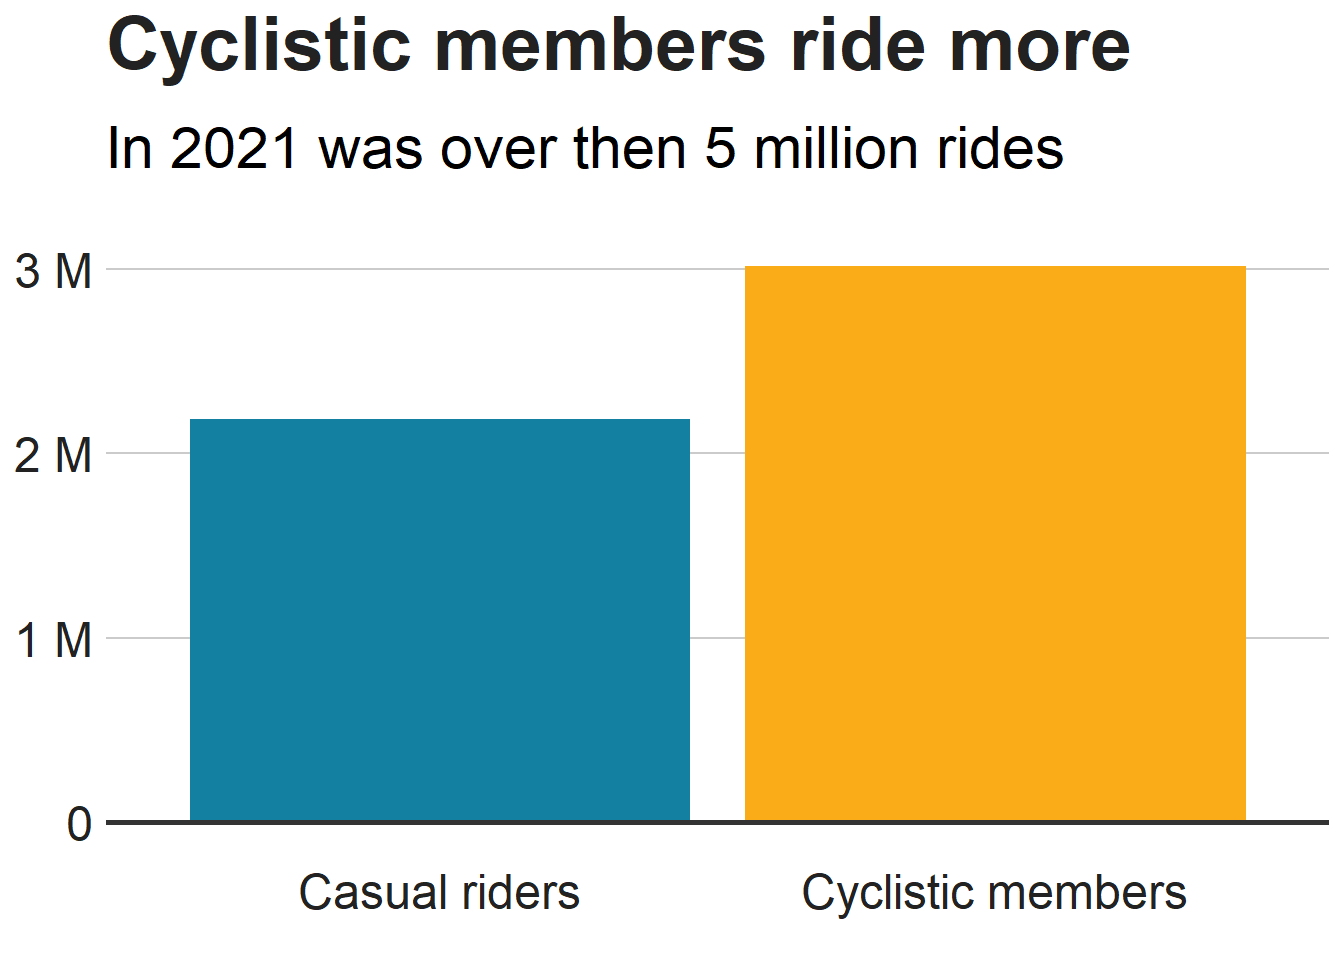
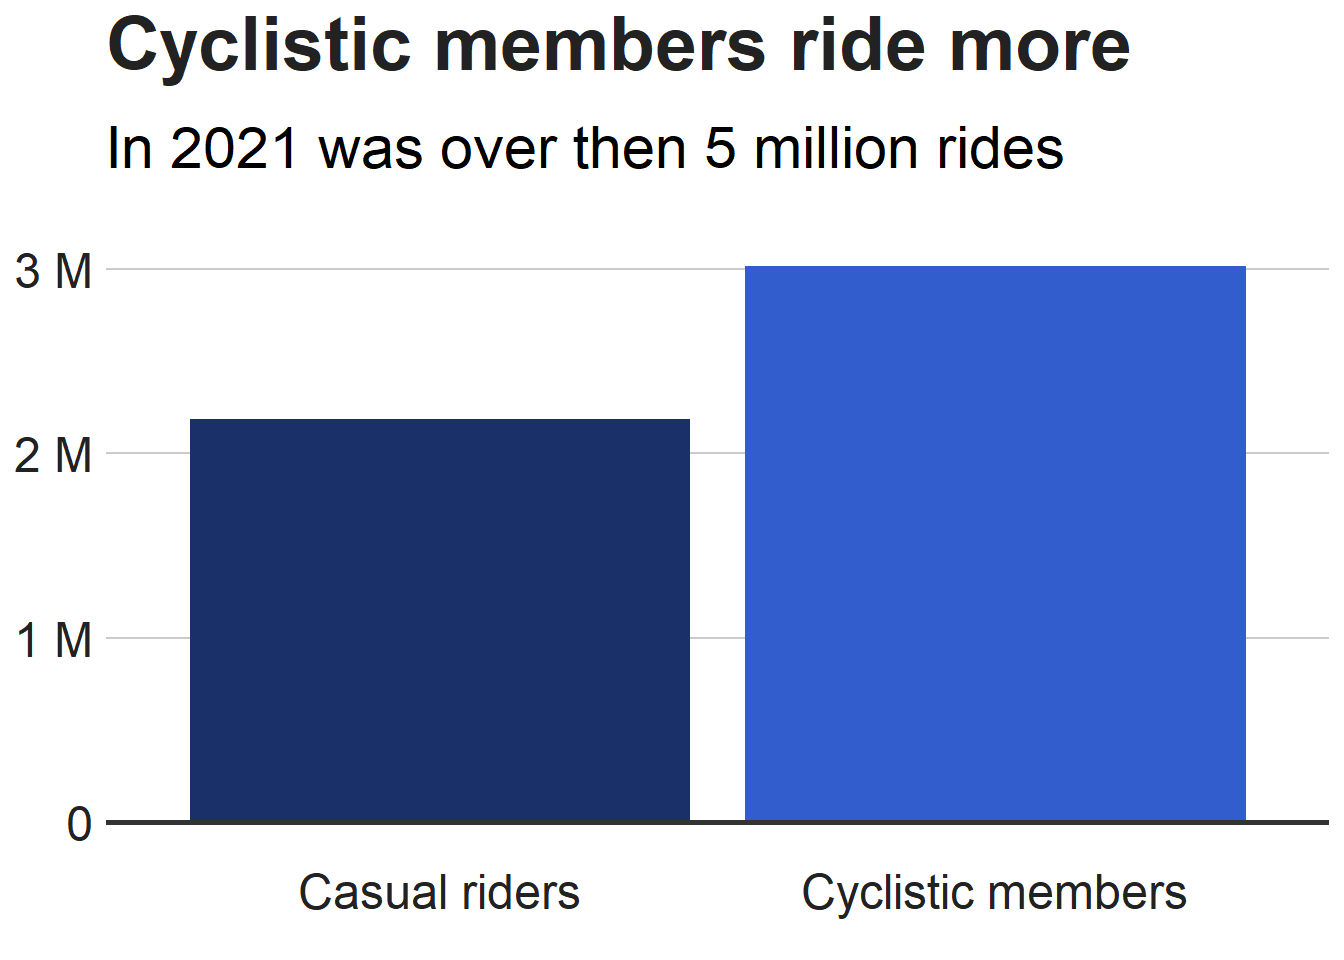
Revisão case bike-share

diff --git a/docs/bike-share-analysis.html b/docs/bike-share-analysis.html
@@ -315,7 +315,7 @@ div.tocify {
         <span class="icon-bar"></span>
         <span class="icon-bar"></span>
       </button>
-      <a class="navbar-brand" href="index.html">Portfolio</a>
+      <a class="navbar-brand" href="index.html">PV Portfolio</a>
     </div>
     <div id="navbar" class="navbar-collapse collapse">
       <ul class="nav navbar-nav">
@@ -353,17 +353,16 @@ div.tocify {
 </div>
 
 
-<p>This project was developed with the goals of practice the learning This is a capstone project of the <a href="https://www.coursera.org/professional-certificates/google-data-analytics">Google Data Analytics Professional Certificate</a>, which I have been doing in the last months, and the goal is to put all the concepts learned in it into practice, without further ado…</p>
+<p>This is a capstone project of the <a href="https://www.coursera.org/professional-certificates/google-data-analytics">Google Data Analytics Professional Certificate</a>, which I have been doing in the last few months, and the goal is to put all the concepts learned in it into practice, without further ado…</p>
 <div id="context" class="section level2">
 <h2>Context</h2>
-<p>I’m a junior data analyst working in Cyclist, a company who launched a successful bike-share offering, and nowadays the fleet of 5.824 bicycles that are geotracked and locked into a network of 692 stations across Chicago.</p>
-<p>The company have three price plans, allowing the customers to use a single-ride pass, a full-day pass or an annual membership. Internally, we refer to customers with the two first price plans as casual riders, and the ones with the annual membership as Cyclistic members.</p>
-<p>Financial analysts concluded that the Cyclistic members are much more profitable than casual riders, and with that information, the director of marketing believes that a campaign focused on the casual riders, to convert them into Cyclistic members is the key to future growth. To design this marketing strategies, we need to understand the differ between these two customers, why the casual riders would by an annual membership, and how digital media could affect our marketing tactics. Our teams are interested in analyzing the Cyclistc historical bike trip data to identify trends.</p>
-<p>I was charged of one answer: How do annual members and casual riders use Cyclistic bikes differently?</p>
+<p>I am a junior data analyst working in Cyclist, a company who launched a successful bike-share offering, and nowadays the fleet of 5.824 bicycles that are geo-tracked and locked into a network of 692 stations across Chicago. The company have three price plans, allowing the customers to use a single-ride pass, a full-day pass or an annual membership. Internally, we refer to customers with the two first price plans as casual riders, and the ones with the annual membership as Cyclistic members.</p>
+<p>Financial analysts concluded that the Cyclistic members are much more profitable than casual riders, and with that information, the director of marketing believes that a campaign focused on the casual riders, to convert them into Cyclistic members is the key to future growth. To design this marketing strategies, we need to understand the differ between these two customers, why the casual riders would by an annual membership, and how digital media could affect our marketing tactics. Our teams are interested in analyzing the Cyclistic historical bike trip data to identify trends.</p>
+<p>I am responsible for one answer: How do annual members and casual riders use Cyclistic bikes differently?</p>
 </div>
 <div id="cyclistic-historical-bike-share-data" class="section level2">
 <h2>Cyclistic Historical Bike-Share Data</h2>
-<p>Our historical data is in this <a href="https://divvy-tripdata.s3.amazonaws.com/index.html">link</a>, under this <a href="https://ride.divvybikes.com/data-license-agreement">license</a>. They are in 12 CSVs containing details of the bike trips for each month of 2021, and it’s organized in the following way:</p>
+<p>Our historical data is in this <a href="https://divvy-tripdata.s3.amazonaws.com/index.html">link</a>, under this <a href="https://ride.divvybikes.com/data-license-agreement">license</a>. They are in 12 CSVs containing details of the bike trips for each month of 2021, and the information is in the following way:</p>
 <table>
 <colgroup>
 <col width="16%" />
@@ -430,18 +429,18 @@ div.tocify {
 </tr>
 </tbody>
 </table>
-<p>The data was stored in local folder named <code>bike-share-data</code>, following the name convention of <code>{yyyy}{mm}-divvy-tripdata.csv</code>.</p>
+<p>The data are in local folder named <code>bike-share-data</code>, following the name convention of <code>{yyyy}{mm}-divvy-tripdata.csv</code>.</p>
 <blockquote>
-<p>Disclaimer: The data is actually from <a href="https://ride.divvybikes.com/">Divvy Bikes</a>, an actual bike-sharing service in Chicago.</p>
+<p>Disclaimer: The data is from <a href="https://ride.divvybikes.com/">Divvy Bikes</a>, an actual bike-sharing service in Chicago.</p>
 </blockquote>
-<p>There are some issues with the data, such as missing values, and some metrics that we can infer from the database, it’ll be described in the next section.</p>
+<p>There are issues with the data such as missing values and metrics that we can infer from the database. I present the data cleaning and transformation steps in the next section.</p>
 </div>
 <div id="the-data-cleaning-process" class="section level2">
 <h2>The Data Cleaning Process</h2>
 <p>After acquiring and understand the data of the rides, the following step is to clean and infer other information from the data that we have. Because the data is too large (more than five million rides within a year), the tools we use to the analysis is the R language, which will allow us to document a cleaning and manipulation process and generate data viz in the next steps.</p>
 <div id="importing-the-data" class="section level3">
 <h3>Importing the data</h3>
-<p>to import the data, we use the command in R:</p>
+<p>To import the data, we use the command in R:</p>
 <pre class="r"><code>bike_2101 &lt;- read.csv(file = &#39;bike-share-data/202101-divvy-tripdata.csv&#39;)
 bike_2102 &lt;- read.csv(file = &#39;bike-share-data/202102-divvy-tripdata.csv&#39;)
 bike_2103 &lt;- read.csv(file = &#39;bike-share-data/202103-divvy-tripdata.csv&#39;)
@@ -457,8 +456,8 @@ bike_2112 &lt;- read.csv(file = &#39;bike-share-data/202112-divvy-tripdata.csv&#
 </div>
 <div id="verifying-the-data" class="section level3">
 <h3>Verifying the data</h3>
-<p>The next step is to verify the data, and for that we’ll use the following commands.</p>
-<p>to list the columns in the dataframe:</p>
+<p>The next step is to verify the data, and for that we will use the following commands.</p>
+<p>To list the columns in the database:</p>
 <pre><code>##  [1] &quot;ride_id&quot;            &quot;rideable_type&quot;      &quot;started_at&quot;         &quot;ended_at&quot;           &quot;start_station_name&quot;
 ##  [6] &quot;start_station_id&quot;   &quot;end_station_name&quot;   &quot;end_station_id&quot;     &quot;start_lat&quot;          &quot;start_lng&quot;         
 ## [11] &quot;end_lat&quot;            &quot;end_lng&quot;            &quot;member_casual&quot;</code></pre>
@@ -528,7 +527,7 @@ rm(bike_2101, bike_2102, bike_2103, bike_2104,
 ##                    
 ##                    
 ## </code></pre>
-<p>Here we can see that the <code>end_lat</code> and <code>end_lng</code> have missing values, but for our analysis we don’t need this information, so we can remove it:</p>
+<p>Here we can see that the <code>end_lat</code> and <code>end_lng</code> have missing values, but for our analysis we do not need this information, so we can remove it:</p>
 <pre class="r"><code>bike_data &lt;- bike_data %&gt;% select(-c(&quot;start_lat&quot;, &quot;start_lng&quot;, &quot;end_lat&quot;, &quot;end_lng&quot;))</code></pre>
 <p>To ensure the columns have only specific values:</p>
 <pre class="r"><code>unique(bike_data$rideable_type)</code></pre>
@@ -541,8 +540,8 @@ rm(bike_2101, bike_2102, bike_2103, bike_2104,
 <pre class="r"><code>max(bike_data$started_at)</code></pre>
 <pre><code>## [1] &quot;2021-12-31 23:59:48&quot;</code></pre>
 </div>
-<div id="transform-the-data" class="section level3">
-<h3>Transform the data</h3>
+<div id="transforming-the-data" class="section level3">
+<h3>Transforming the data</h3>
 <p>We can transform then to levels to work more efficient:</p>
 <pre class="r"><code>bike_data$rideable_type &lt;- factor(bike_data$rideable_type)
 bike_data$member_casual &lt;- factor(bike_data$member_casual)</code></pre>
@@ -559,7 +558,7 @@ bike_data$month &lt;- format(as.Date(bike_data$date), &quot;%b&quot;)
 bike_data$day &lt;- format(as.Date(bike_data$date), &quot;%d&quot;)
 bike_data$year &lt;- format(as.Date(bike_data$date), &quot;%Y&quot;)
 bike_data$day_of_week &lt;- format(as.Date(bike_data$date), &quot;%a&quot;)</code></pre>
-<p>To make our analysis easier, we have to ordinate the month and the weekdays:</p>
+<p>To make our analysis easier, we must ordinate the month and the days of week:</p>
 <pre class="r"><code>bike_data$month &lt;- ordered(bike_data$month, levels=c(&quot;Jan&quot;, &quot;Feb&quot;, &quot;Mar&quot;, &quot;Apr&quot;, &quot;May&quot;, &quot;Jun&quot;, &quot;Jul&quot;, &quot;Aug&quot;, &quot;Sep&quot;, &quot;Oct&quot;, &quot;Nov&quot;, &quot;Dec&quot;))
 bike_data$day_of_week &lt;- ordered(bike_data$day_of_week, levels=c(&quot;Sun&quot;, &quot;Mon&quot;, &quot;Tue&quot;, &quot;Wed&quot;, &quot;Thu&quot;, &quot;Fri&quot;, &quot;Sat&quot;))</code></pre>
 </div>
@@ -854,7 +853,7 @@ knitr::kable(rides_per_user_month, &quot;pipe&quot;)</code></pre>
 </tr>
 </tbody>
 </table>
-<p>Also, we look for patterns in the weekdays:</p>
+<p>Also, we look for patterns in the days of week:</p>
 <pre class="r"><code>rides_per_user_weekday &lt;- bike_data %&gt;%
   group_by(member_casual, day_of_week) %&gt;%
   summarise(number_of_rides=n(),
@@ -998,7 +997,7 @@ knitr::kable(rides_per_user_weekday, &quot;pipe&quot;)</code></pre>
 </tr>
 </tbody>
 </table>
-<p>We can search for trends of use in different types of bikes, so let’s generate this base:</p>
+<p>We can search for trends of use of our two types of bikes, so let us generate this base:</p>
 <pre class="r"><code>rides_per_user_and_type &lt;- bike_data %&gt;%
   group_by(member_casual, rideable_type) %&gt;%
   summarise(number_of_rides=n(),
@@ -1062,6 +1061,7 @@ knitr::kable(rides_per_user_and_type, &quot;pipe&quot;)</code></pre>
 </tr>
 </tbody>
 </table>
+<p>Also, we can analyze the data mothly:</p>
 <pre class="r"><code>rides_per_user_and_type_month &lt;- bike_data %&gt;%
   group_by(member_casual, rideable_type, month) %&gt;%
   summarise(number_of_rides=n(),
@@ -1528,6 +1528,7 @@ knitr::kable(rides_per_user_and_type_month, &quot;pipe&quot;)</code></pre>
 </tr>
 </tbody>
 </table>
+<p>And inside a week:</p>
 <pre class="r"><code>rides_per_user_and_type_weekday &lt;- bike_data %&gt;%
   group_by(member_casual, rideable_type, day_of_week) %&gt;%
   summarise(number_of_rides=n(),
@@ -1818,12 +1819,12 @@ knitr::kable(rides_per_user_and_type_weekday, &quot;pipe&quot;)</code></pre>
 </div>
 <div id="share-our-findings" class="section level2">
 <h2>Share our Findings</h2>
-<p>After performed our analysis, we will develop some data visualizations to communicate our findings to the executive team. To do that, we will need to be concise and precise on our decisions to what use on the presentation.</p>
+<p>After performed our analysis, we will develop data visualizations to communicate our findings to the executive team. To do that, we will need to be concise and precise on our decisions to what use on the presentation.</p>
 <p>Beginning with a chart to compare the total number of rides made for each type of customer:</p>
 <pre class="r"><code>rides_per_user %&gt;% 
 ggplot(aes(x=member_casual, y = number_of_rides, fill=member_casual)) +
   geom_bar(stat=&quot;identity&quot;, position=&quot;identity&quot;) +
-  scale_fill_manual(values = c(&quot;#1380A1&quot;, &quot;#FAAB18&quot;)) +
+  scale_fill_manual(values = c(&quot;#1a3068&quot;, &quot;#325dcc&quot;)) +
   geom_hline(yintercept = 0, size = 1, colour=&quot;#333333&quot;) +
   bbc_style() +
   labs(title=&quot;Cyclistic members ride more&quot;,
@@ -1840,7 +1841,7 @@ ggplot(aes(x=member_casual, y = number_of_rides, fill=member_casual)) +
   ggplot(aes(x = month, y = number_of_rides, group = member_casual, color=member_casual
              )) +
    geom_line(size=1)  +
-  scale_color_manual(values = c(&quot;#1380A1&quot;, &quot;#FAAB18&quot;)) +
+  scale_color_manual(values = c(&quot;#1a3068&quot;, &quot;#325dcc&quot;)) +
   geom_hline(yintercept = 0, size = 1, colour=&quot;#333333&quot;) +
   bbc_style() +
   labs(title=&quot;Seasonal trend&quot;,
@@ -1853,14 +1854,14 @@ ggplot(aes(x=member_casual, y = number_of_rides, fill=member_casual)) +
   geom_label(aes(x = 8, y = 80000, label = &quot;Casual riders&quot;), 
              hjust = 0, 
              vjust = 0.5, 
-             colour = &quot;#1380A1&quot;, 
+             colour = &quot;#1a3068&quot;, 
              fill = &quot;white&quot;, 
              label.size = NA,
              size = 5) +
   geom_label(aes(x = 8, y = 410000, label = &quot;Cyclistic members&quot;), 
              hjust = 0, 
              vjust = 0.5, 
-             colour = &quot;#FAAB18&quot;,
+             colour = &quot;#325dcc&quot;,
              fill = &quot;white&quot;,
              label.size = NA,
              size = 5)</code></pre>
@@ -1870,7 +1871,7 @@ ggplot(aes(x=member_casual, y = number_of_rides, fill=member_casual)) +
   ggplot(aes(x = day_of_week, y = number_of_rides, group = member_casual, color=member_casual
              )) +
    geom_line(size=1)  +
-  scale_color_manual(values = c(&quot;#1380A1&quot;, &quot;#FAAB18&quot;)) +
+  scale_color_manual(values = c(&quot;#1a3068&quot;, &quot;#325dcc&quot;)) +
   geom_hline(yintercept = 0, size = 1, colour=&quot;#333333&quot;) +
   bbc_style() +
   labs(title=&quot;Be casual on Weekends&quot;,
@@ -1883,14 +1884,14 @@ ggplot(aes(x=member_casual, y = number_of_rides, fill=member_casual)) +
   geom_label(aes(x = 5, y = 200000, label = &quot;Casual riders&quot;), 
              hjust = 0, 
              vjust = 0.5, 
-             colour = &quot;#1380A1&quot;, 
+             colour = &quot;#1a3068&quot;, 
              fill = &quot;white&quot;, 
              label.size = NA,
              size = 5) +
   geom_label(aes(x = 5, y = 500000, label = &quot;Cyclistic members&quot;), 
              hjust = 0, 
              vjust = 0.5, 
-             colour = &quot;#FAAB18&quot;,
+             colour = &quot;#325dcc&quot;,
              fill = &quot;white&quot;,
              label.size = NA,
              size = 5)</code></pre>
@@ -1901,7 +1902,7 @@ ggplot(aes(x=member_casual, y = number_of_rides, fill=member_casual)) +
   ggplot(aes(x = day_of_week, y = average_duration, group = member_casual, color=member_casual
              )) +
    geom_line(size=1)  +
-  scale_color_manual(values = c(&quot;#1380A1&quot;, &quot;#FAAB18&quot;)) +
+  scale_color_manual(values = c(&quot;#1a3068&quot;, &quot;#325dcc&quot;)) +
   geom_hline(yintercept = 0, size = 1, colour=&quot;#333333&quot;) +
   bbc_style() +
   labs(title=&quot;Casually riding more&quot;,
@@ -1914,28 +1915,29 @@ ggplot(aes(x=member_casual, y = number_of_rides, fill=member_casual)) +
   geom_label(aes(x = 5, y = 30, label = &quot;Casual riders&quot;), 
              hjust = 0, 
              vjust = 0.5, 
-             colour = &quot;#1380A1&quot;, 
+             colour = &quot;#1a3068&quot;, 
              fill = &quot;white&quot;, 
              label.size = NA,
              size = 5) +
   geom_label(aes(x = 5, y = 10, label = &quot;Cyclistic members&quot;), 
              hjust = 0, 
              vjust = 0.5, 
-             colour = &quot;#FAAB18&quot;,
+             colour = &quot;#325dcc&quot;,
              fill = &quot;white&quot;,
              label.size = NA,
              size = 5)</code></pre>
-<p><img src="bike-share-analysis_files/figure-html/average%20per%20day%20of%20week-1.png" width="672" /> We can see that Cyclistic members make the shortest rides.</p>
+<p><img src="bike-share-analysis_files/figure-html/average%20per%20day%20of%20week-1.png" width="672" /> </p>
+<p>We can see that the Cyclistic members make the shortest rides.</p>
 </div>
 <div id="suggestion-of-new-plans" class="section level2">
 <h2>Suggestion of New Plans</h2>
 <p>Our results suggests that the casual riders take more rides on weekends, and they also do the longer rides, so we can give three recommendations:</p>
 <ul>
-<li>Create new annual plans with more flexibility, such as plans valid only on the weekends;</li>
-<li>Create new fidelity plan, so customer who rides longer have some discount when he is a Cyclistic member;</li>
+<li>Create new annual plans with more flexibility, such as plans valid only on the weekends.</li>
+<li>Create new fidelity plan, so customer who rides longer have discount when he is a Cyclistic member.</li>
 <li>Create a month plan, to attend the high pic of rides in the middle of the year.</li>
 </ul>
-<p>As further analysis we can use data from the customers, such as job occupation and how they use our bikes, to understand why the uses on weekend is so high.</p>
+<p>As further analysis we can use data from the customers, such as job occupation and how they use our bikes, to understand why the use on weekend is so high.</p>
 </div>
 
 

diff --git a/docs/index.html b/docs/index.html
@@ -239,7 +239,7 @@ $(document).ready(function () {
         <span class="icon-bar"></span>
         <span class="icon-bar"></span>
       </button>
-      <a class="navbar-brand" href="index.html">Portfolio</a>
+      <a class="navbar-brand" href="index.html">PV Portfolio</a>
     </div>
     <div id="navbar" class="navbar-collapse collapse">
       <ul class="nav navbar-nav">
